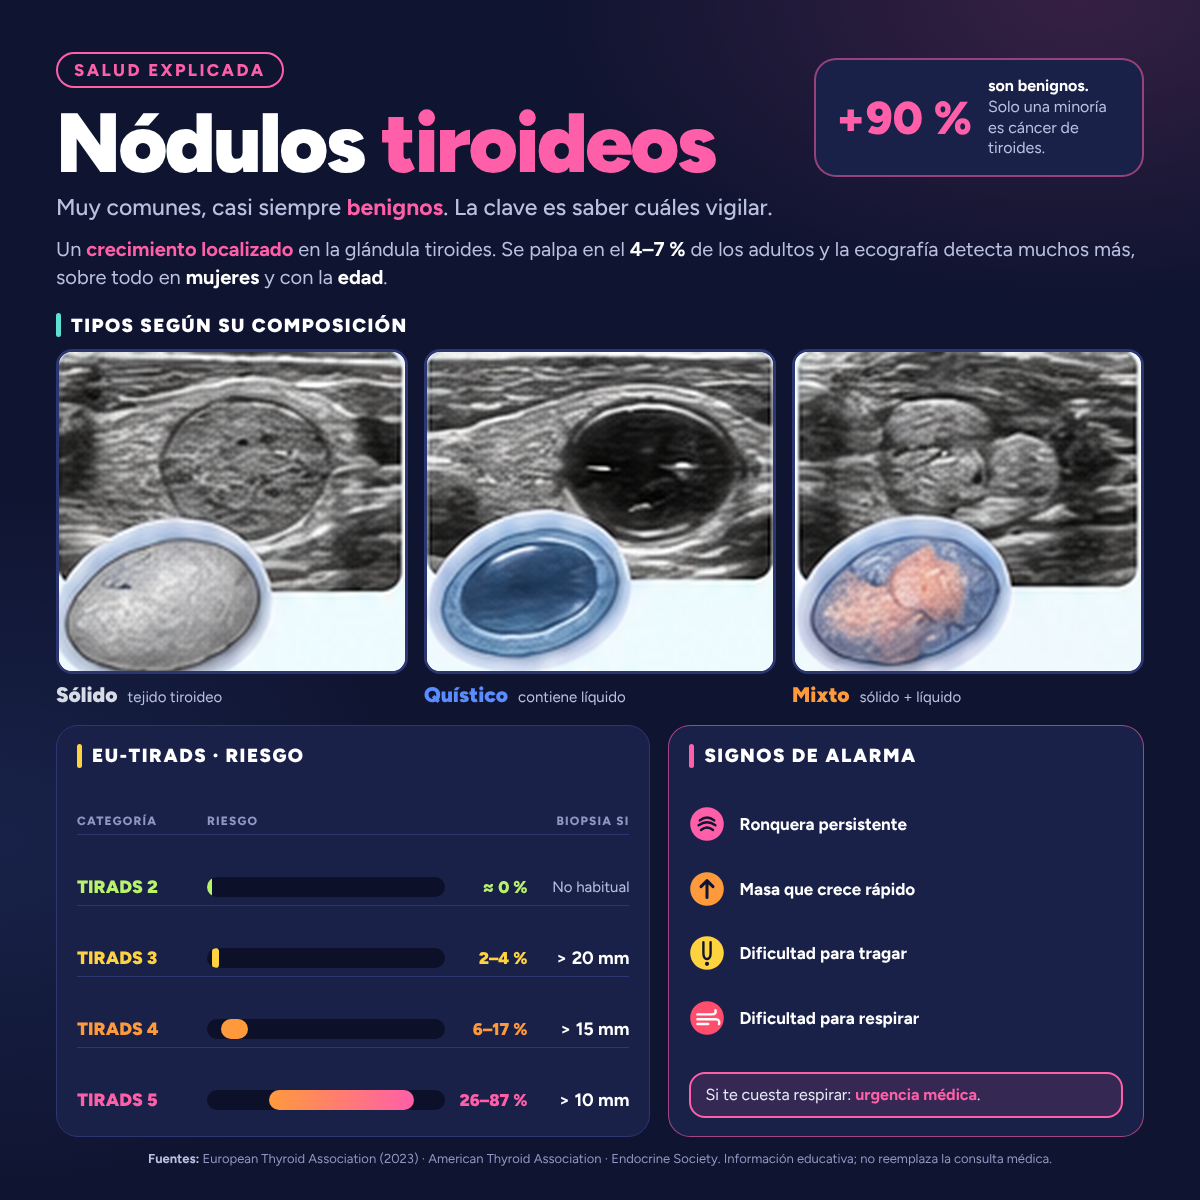
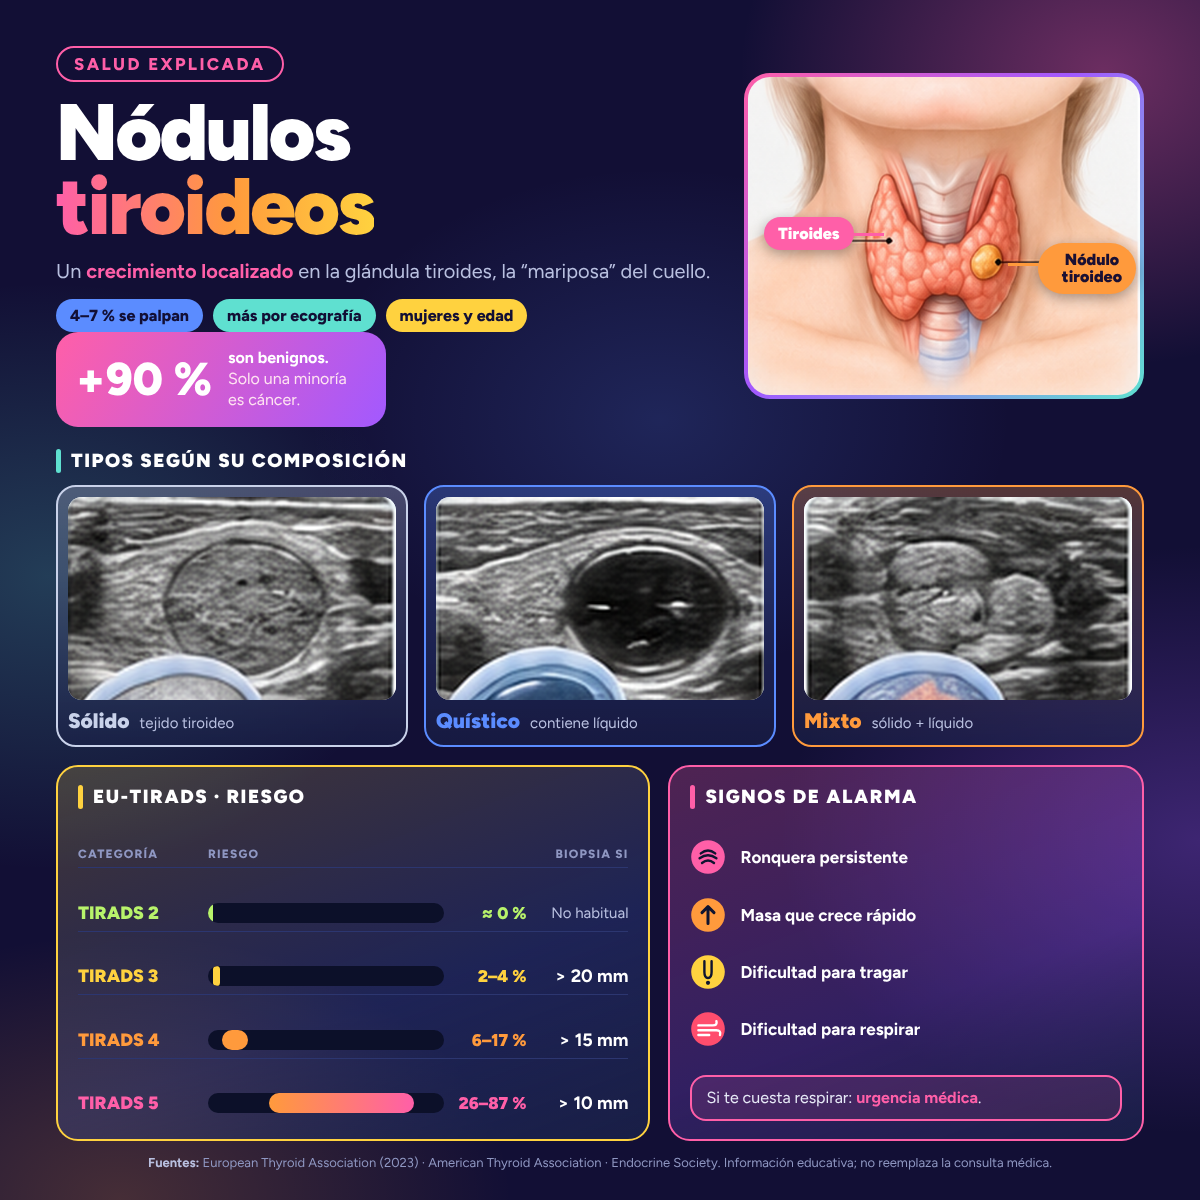
Resumen 1200x1200: ilustración de tiroides y paleta más colorida
Claude-Session: https://claude.ai/code/session_01LbJcJxscBPpfvn3yJCteRF

diff --git a/docs/infografias/nodulos-tiroideos/resumen-1200.html b/docs/infografias/nodulos-tiroideos/resumen-1200.html
@@ -122,8 +122,31 @@ h1 .p{color:var(--pink);display:block}
 .src{font-size:14px;color:var(--dim);margin-top:22px;line-height:1.5;text-align:center}
 .src b{color:var(--mut)}
 
-.sq{width:1200px;height:1200px;padding:52px 56px 34px;display:flex;flex-direction:column;overflow:hidden;
- background:radial-gradient(900px 500px at 90% 0%,rgba(255,95,168,.16),transparent 60%),radial-gradient(700px 600px at 0% 70%,rgba(91,140,255,.12),transparent 60%),var(--bg)}
+.sq{width:1200px;height:1200px;padding:46px 56px 30px;display:flex;flex-direction:column;overflow:hidden;
+ background:radial-gradient(520px 420px at 92% 6%,rgba(255,95,168,.38),transparent 70%),
+ radial-gradient(520px 420px at 4% 48%,rgba(95,224,208,.22),transparent 70%),
+ radial-gradient(600px 420px at 100% 70%,rgba(162,89,255,.30),transparent 70%),
+ radial-gradient(560px 380px at 10% 100%,rgba(255,154,60,.22),transparent 70%),
+ radial-gradient(500px 360px at 55% 35%,rgba(91,140,255,.18),transparent 70%),#120f35}
+.grad{background:linear-gradient(90deg,#ff5fa8,#ff9a3c 55%,#ffd23f);-webkit-background-clip:text;background-clip:text;color:transparent}
+.head{display:grid;grid-template-columns:1fr 400px;gap:28px;align-items:center}
+.thy{position:relative;border-radius:26px;padding:4px;background:linear-gradient(135deg,#ff5fa8,#a259ff 45%,#5fe0d0)}
+.thy img{display:block;width:100%;border-radius:22px}
+.pill{position:absolute;font-weight:900;font-size:16px;color:#fff;padding:7px 14px;border-radius:999px;box-shadow:0 4px 14px rgba(0,0,0,.35);white-space:nowrap}
+.pill.a{left:5%;top:44%;background:#ff5fa8}
+.pill.b{right:2%;top:52%;text-align:center;line-height:1.1;padding:8px 14px 8px 24px;background:#ff9a3c;color:#1a1033}
+.pill.a::after{content:"";position:absolute;right:-30px;top:50%;width:30px;height:3px;background:#ff5fa8}
+.pill.b::before{content:"";position:absolute;left:-30px;top:40%;width:30px;height:3px;background:#ff9a3c}
+.types .ty{border-radius:20px;padding:10px 10px 12px;border:2px solid var(--c);background:linear-gradient(180deg,color-mix(in srgb,var(--c) 28%,transparent),rgba(26,33,73,.6))}
+.types .ty .us{border:0;border-radius:14px}
+.ty h4{color:var(--c)!important}
+.card.ctir{border:2px solid var(--yellow);background:linear-gradient(160deg,rgba(255,210,63,.20),rgba(91,140,255,.16) 60%,rgba(26,33,73,.85))}
+.card.alr{border:2px solid var(--pink);background:linear-gradient(160deg,rgba(255,95,168,.26),rgba(162,89,255,.22) 60%,rgba(26,33,73,.85))}
+.sq .stat{background:linear-gradient(120deg,#ff5fa8,#a259ff);border:0;margin-top:20px;width:auto;display:inline-flex}
+.sq .stat .n{color:#fff}.sq .stat .t{color:#ffe3f1}
+.chips{display:flex;gap:10px;margin-top:14px;flex-wrap:wrap}
+.chip{font-weight:800;font-size:16px;padding:7px 14px;border-radius:999px;color:#120f35}
+
 .top{display:flex;justify-content:space-between;align-items:flex-start;gap:24px}
 .sq h1{font-size:84px;margin-top:16px}
 .sq .sub{font-size:23px;margin-top:12px}
@@ -137,7 +160,7 @@ h1 .p{color:var(--pink);display:block}
 .lbl{font-size:19px;font-weight:900;letter-spacing:.08em;text-transform:uppercase;display:flex;align-items:center;gap:10px;margin:22px 0 12px}
 .lbl::before{content:"";width:5px;height:24px;border-radius:3px;background:var(--bar,var(--blue))}
 .types{display:grid;grid-template-columns:repeat(3,1fr);gap:16px}
-.types .us img{aspect-ratio:1/0.92;object-fit:cover;object-position:top}
+.types .us img{aspect-ratio:1/0.62;object-fit:cover;object-position:top}
 .types .t2{display:flex;align-items:baseline;gap:10px;margin-top:8px}
 .types h4{font-size:21px;font-weight:900}
 .types p{font-size:15px;color:var(--mut)}
@@ -160,27 +183,26 @@ h1 .p{color:var(--pink);display:block}
 .fsrc{font-size:13px;color:var(--dim);margin-top:14px;text-align:center}
 </style></head><body>
 <div class="sq">
- <div class="top">
+ <div class="head">
   <div>
    <span class="kicker">SALUD EXPLICADA</span>
-   <h1>Nódulos <span class="p" style="display:inline">tiroideos</span></h1>
-   <p class="sub">Muy comunes, casi siempre <b>benignos</b>. La clave es saber cuáles vigilar.</p>
+   <h1 style="font-size:80px;margin-top:14px">Nódulos<br><span class="grad">tiroideos</span></h1>
+   <p class="que" style="margin-top:14px">Un <em>crecimiento localizado</em> en la glándula tiroides, la “mariposa” del cuello.</p>
+   <div class="chips"><span class="chip" style="background:var(--blue)">4–7 % se palpan</span><span class="chip" style="background:var(--cyan)">más por ecografía</span><span class="chip" style="background:var(--yellow)">mujeres y edad</span></div>
+   <div class="stat"><div class="n">+90 %</div><div class="t"><b style="color:#fff">son benignos.</b><br>Solo una minoría es cáncer.</div></div>
   </div>
-  <div class="right">
-   <div class="stat"><div class="n">+90 %</div><div class="t"><b>son benignos.</b> Solo una minoría es cáncer de tiroides.</div></div>
-  </div>
+  <div class="thy"><img src="img/tiroides.png" alt="Ilustración de la tiroides con un nódulo"><span class="pill a">Tiroides</span><span class="pill b">Nódulo<br>tiroideo</span></div>
  </div>
- <p class="que" style="margin-top:14px">Un <em>crecimiento localizado</em> en la glándula tiroides. Se palpa en el <b style="color:#fff">4–7 %</b> de los adultos y la ecografía detecta muchos más, sobre todo en <b style="color:#fff">mujeres</b> y con la <b style="color:#fff">edad</b>.</p>
 
  <div class="lbl" style="--bar:var(--cyan)">Tipos según su composición</div>
  <div class="types">
-  <div><div class="us"><img src="img/solido.png" alt="Ecografía de nódulo sólido"></div><div class="t2"><h4 style="color:#d6dbe6">Sólido</h4><p>tejido tiroideo</p></div></div>
-  <div><div class="us"><img src="img/quistico.png" alt="Ecografía de nódulo quístico"></div><div class="t2"><h4 style="color:var(--blue)">Quístico</h4><p>contiene líquido</p></div></div>
-  <div><div class="us"><img src="img/mixto.png" alt="Ecografía de nódulo mixto"></div><div class="t2"><h4 style="color:var(--orange)">Mixto</h4><p>sólido + líquido</p></div></div>
+  <div class="ty" style="--c:#c9d2ea"><div class="us"><img src="img/solido.png" alt="Ecografía de nódulo sólido"></div><div class="t2"><h4 style="color:#d6dbe6">Sólido</h4><p>tejido tiroideo</p></div></div>
+  <div class="ty" style="--c:#5b8cff"><div class="us"><img src="img/quistico.png" alt="Ecografía de nódulo quístico"></div><div class="t2"><h4 style="color:var(--blue)">Quístico</h4><p>contiene líquido</p></div></div>
+  <div class="ty" style="--c:#ff9a3c"><div class="us"><img src="img/mixto.png" alt="Ecografía de nódulo mixto"></div><div class="t2"><h4 style="color:var(--orange)">Mixto</h4><p>sólido + líquido</p></div></div>
  </div>
 
  <div class="bottom" style="margin-top:18px">
-  <div class="card">
+  <div class="card ctir">
    <div class="lbl" style="--bar:var(--yellow);margin-top:0">EU-TIRADS · riesgo</div>
    <div class="mh"><div>Categoría</div><div>Riesgo</div><div></div><div>Biopsia si</div></div>
    <div class="mt"><div class="cl" style="color:var(--green)">TIRADS 2</div><div class="bar"><span style="left:0;width:2%;background:var(--green)"></span></div><div class="pct" style="color:var(--green)">≈ 0 %</div><div class="bx">No habitual</div></div>
@@ -188,7 +210,7 @@ h1 .p{color:var(--pink);display:block}
    <div class="mt"><div class="cl" style="color:var(--orange)">TIRADS 4</div><div class="bar"><span style="left:6%;width:11%;background:var(--orange)"></span></div><div class="pct" style="color:var(--orange)">6–17 %</div><div class="bx"><b>&gt; 15 mm</b></div></div>
    <div class="mt"><div class="cl" style="color:var(--pink)">TIRADS 5</div><div class="bar"><span style="left:26%;width:61%;background:linear-gradient(90deg,var(--orange),var(--pink))"></span></div><div class="pct" style="color:var(--pink)">26–87 %</div><div class="bx"><b>&gt; 10 mm</b></div></div>
   </div>
-  <div class="card pk">
+  <div class="card alr">
    <div class="lbl" style="--bar:var(--pink);margin-top:0">Signos de alarma</div>
    <div class="al2"><svg viewBox="0 0 60 60"><circle cx="30" cy="30" r="28" fill="#ff5fa8"/><path d="M18 24 Q30 14 42 24 M16 32 Q30 22 44 32 M20 40 Q30 32 40 40" stroke="#0f1430" stroke-width="4" fill="none" stroke-linecap="round"/></svg><p>Ronquera persistente</p></div>
    <div class="al2"><svg viewBox="0 0 60 60"><circle cx="30" cy="30" r="28" fill="#ff9a3c"/><path d="M30 44 V16 M20 26 L30 16 L40 26" stroke="#0f1430" stroke-width="5" fill="none" stroke-linecap="round" stroke-linejoin="round"/></svg><p>Masa que crece rápido</p></div>
